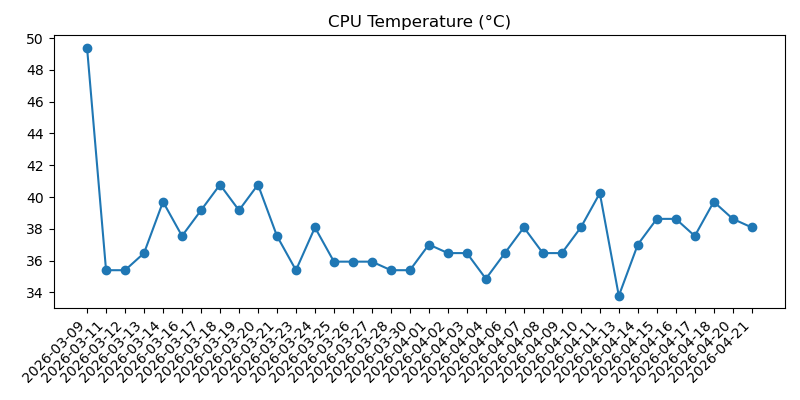
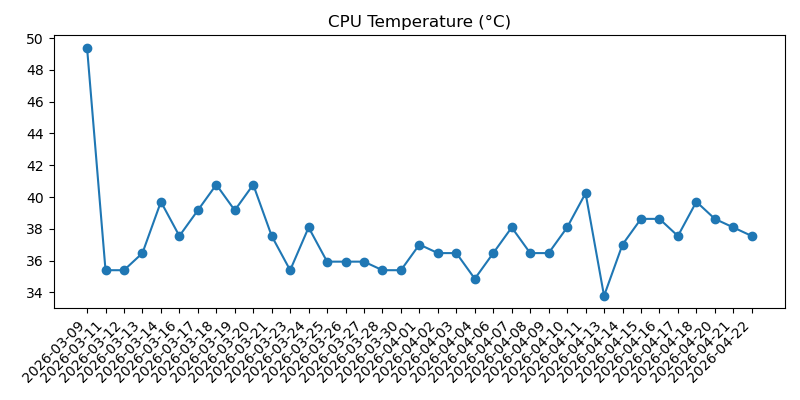
Add daily health and weather snapshot

Changed region(s): [[0.0312, 0.78, 0.9375, 0.96], [0.1875, 0.45, 0.9688, 0.78], [0.1562, 0.6, 0.1875, 0.66]]

diff --git a/2026-04.md b/2026-04.md
@@ -612,3 +612,37 @@
 - Overall: Good
 - Warning: None
 
+## 2026-04-22 11:28:42
+
+### Machine
+- Uptime: up 1 day, 13 hours, 14 minutes
+- CPU load (1m, 5m, 15m): 0.00, 0.00, 0.00
+- RAM used: 158 MB / 921 MB (17.2%)
+- Disk used (/): 3.5 GB / 28.8 GB (12.2%)
+- Free disk space (/): 24.1 GB
+- CPU temp: 37.6°C
+- Voltage / throttling: OK
+
+### Reachability
+- Internet check (1.1.1.1): Reachable (4.0 ms)
+
+### Weather
+- Madrid:
+  - Condition: Poco nuboso
+  - Max temp: 24°C
+  - Min temp: 15°C
+  - Feels like: 19°C
+  - Chance of rain: 0%
+  - Warnings: None reported
+- Barcelona:
+  - Condition: Muy nuboso
+  - Max temp: 22°C
+  - Min temp: 15°C
+  - Feels like: 18°C
+  - Chance of rain: 0%
+  - Warnings: None reported
+
+### Health
+- Overall: Good
+- Warning: None
+
